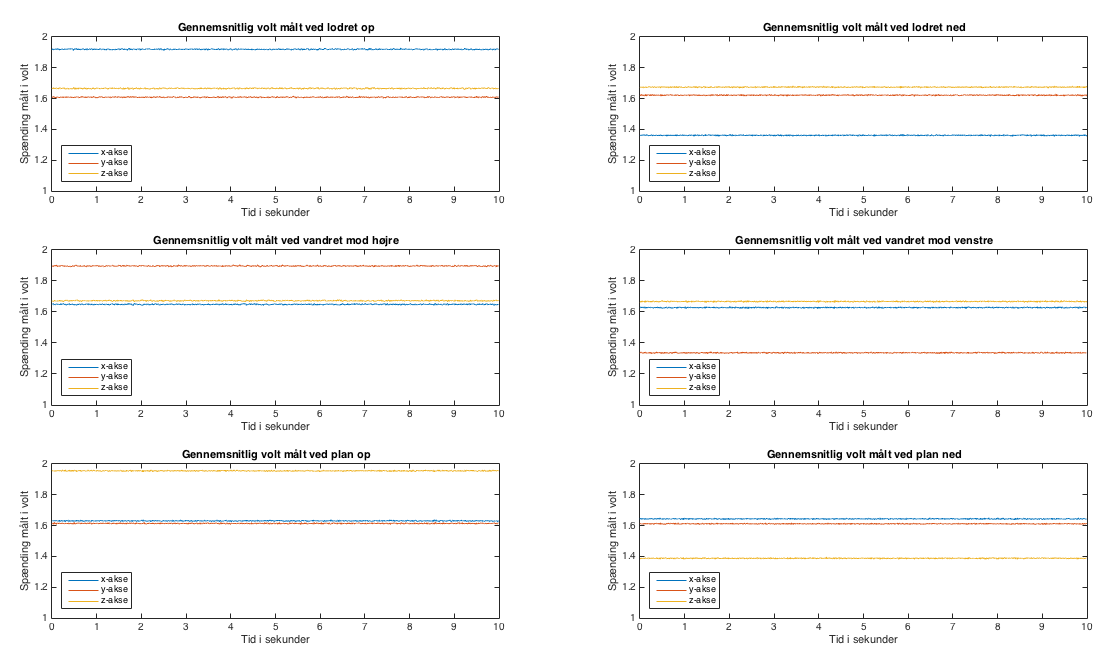
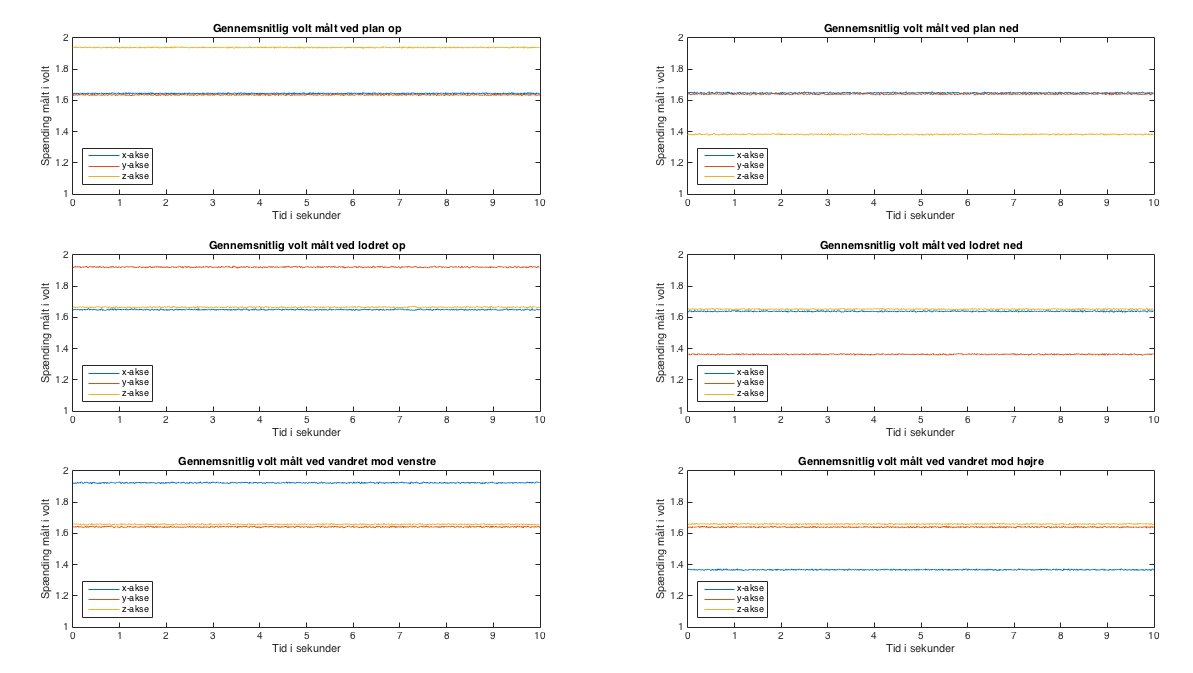
vinkeltest

diff --git a/rapportAfsnit/gPilotforsoeg/test_acc.tex b/rapportAfsnit/gPilotforsoeg/test_acc.tex
@@ -3,34 +3,49 @@
 I dette projekt anvendes to accelerometre, som er beskrevet i \autoref{sec:acc}. Disse anvendes som sensorer til opsamling af acceleration, der giver et outputsignal svarende til en spænding. For at kunne anvende et accelerometer er det vigtigt at kende forskellige tolerancer i forhold til deres datablade, hvorfor et forsøg udføres for at kunne tage højde for disse parametre.
 
 \subsection{Formål}
-Denne test har til formål at identificere spændingen i henholdsvis $0^{\circ}$ og $90^{\circ}$, hvorudfra vinkler kan beregnes. Derudover identificeres støjsignaler i outputsignalet samt offsettet og sensitiviteten. Dette gøres for at teste accelerometrenes tolerancer, hvorved dette kan tages højde for i senere forsøg. 
+Denne test har til formål at identificere spændingen i henholdsvis $1^{\circ}$ og $90^{\circ}$, hvorudfra vinkler kan beregnes. Derudover identificeres %støjsignaler i outputsignalet samt 
+offsettet og sensitiviteten, hvilket gøres for at teste accelerometrenes tolerancer.
 
 \begin{enumerate}
-\item Identificering af støj i outputsignaler for accelerometrene
+%\item Identificering af støj i outputsignaler for accelerometrene
+\item Test af linearitet
 \item Identificering af offsettet og sensitiviteten for accelerometrene
-\item Identificering af spænding ved $0^{\circ}$ og $90^{\circ}$
+\item Identificering af spænding ved $1^{\circ}$ og $90^{\circ}$
 \end{enumerate}
 
 \subsection{Materialer}
 \begin{itemize}
 \item Accelerometre ADXL$335$
 \item Tape
-\item Vinkel
 \item Vaterpas
 \item Breadboard
+\item Vinkeltester, fremgår af \autoref{vinkeltest}
 \item Computer med Scopelogger og MATLAB
 \item NI USB-6009
 \end{itemize}
 
 \subsection{Metode}
 \begin{enumerate}
-\item Der foretages målinger i accelerometerets tre akser og i de seks positioner som accelerometeret, hvorved støj som accelerometeret påvirkes med kan identificeres
-\item Ud fra de øvrige målinger kan offset og sensitiviteten beregnes ved at se på de akser hvor accelerometeret udsættes for 0 g-påvirkning, hvilket svarer til at accelerometeret ikke udsættes for tyngdekraften, hvorved accelerometeret måles vinkelret på planet
-\item Ud fra målingerne ved 0 og 1 g-påvirkning kan spændingen ved $0^(\circ}$ og $90^{\circ}$ kan beregnes ved \autoref{equ:vinkler}
+%\item Der foretages målinger i accelerometerets tre akser og i de seks positioner som accelerometeret, hvorved støj som accelerometeret påvirkes med kan identificeres
+\item Der foretages måliger i accelerometerets tre akser i 11 positioner, hvorved der kan testes for linearitet
+\item Der foretages målinger i accelerometerets tre akser og i de seks positioner som accelerometeret, hvor efter offset og sensitiviteten kan beregnes ved at se på de akser, hvor accelerometeret udsættes for 0 g-påvirkning, hvilket svarer til at accelerometeret ikke udsættes for tyngdekraften, hvorved accelerometeret måles vinkelret på planet
+\item Ud fra målingerne ved 0 og 1 g-påvirkning kan spændingen ved $1^(\circ}$ og $90^{\circ}$ kan beregnes ved \autoref{equ:vinkler}
 \end{enumerate}
 
 \subsection{Forsøgsopstilling}
 Forsøgsopstillingen udføres på samme måde for begge accelerometre.
+
+\textbf{Forsøgsopstilling af formål 1}
+\begin{itemize}
+\item Accelerometeret tilkobles vinkeltesteren.
+\begin{itemize}
+\item Accelerometeret indstilles efter fremgangsmåden for hver øvelse som er illustreret i autoref{sec:fremgangsmaadevinkel}
+\end{itemize}
+\item Accelerometeret tilkobles NI USB-6009
+\item NI USB-6009 tilkobles computer
+\end{itemize}
+
+\textbf{Forsøgsopstilling af formål 2 og 3}
 \begin{itemize}
 \item Accelerometeret tilkobles breadboardet og sættes fast med tape
 \item Accelerometeret indstilles så det er i vater med et vaterpas
@@ -42,8 +57,37 @@ Forsøgsopstillingen udføres på samme måde for begge accelerometre.
 \end{itemize}
 
 \subsection{Fremgangsmåde} 
-\label{sec:acc_fremgangsmaade}
-Der foretages seks forskellige positioner for hvert accelerometer. Hver position måles tre gange og samles i 10 sekunder ved 100 Hz, hvilket er det dobbelte af båndbredden for accelerometrene \citep{analogdevices2010}. De forskellige fremgangsmåder er illustreret på \autoref{fig:acc_paavirkning}. 
+Fremgangsmåden er den samme for de to accelerometre og der måles på alle tre akser på accelerometerne 
+\textbf{Fremgangsmåde for formål 1} \label{vinkel_fremgangsmaade}
+Der foretages 3 forskellige positioner. Hver position måles 1 gang i de forskellige vinkeler og samples i 10 sekunder ved 100Hz, hvilket er det dobbelte af båndbredden for accelerometrene \citep{analogdevices2010}. Målingerne er udført på en vinkeltester, som er illustreret på \autoref{fig:vinkeltest}
+\begin{itemize}
+\item Accelerometeret måles så det er lodret
+\begin{itemize}
+\item Målinger fra $0^{\circ}$ til og med $180^{\circ}$ med $20^{\circ}$ interval 
+\item Måling ved $90^{\circ}$  
+\end{itemize}
+\item Accelerometeret måles så det er vandret
+\begin{itemize}
+\item Målinger fra $0^{\circ}$ til og med $180^{\circ}$ med $20^{\circ}$ interval 
+\item Måling ved $90^{\circ}$  
+\end{itemize}
+\item Accelerometeret måles i plan på bordet
+\begin{itemize}
+\item Målinger fra $0^{\circ}$ til og med $180^{\circ}$ med $20^{\circ}$ interval 
+\item Måling ved $90^{\circ}$  
+\end{itemize}
+\end{itemize}
+
+
+\begin{figure}[H]
+\centering
+\includegraphics[width=0.3\textwidth]{figures/vinkeltest}
+\caption{Vinkeltester som anvendes under forsøget til at holde accelerometeret i bestemte vinkeler}
+\label{fig:vinkeltest}
+\end{figure}
+
+\textbf{Fremgangsmåde for formål 2 og 3}\label{sec:acc_fremgangsmaade}
+Der foretages seks forskellige positioner. Hver position måles tre gange og samles i 10 sekunder ved 100 Hz, hvilket er det dobbelte af båndbredden for accelerometrene \citep{analogdevices2010}. De forskellige fremgangsmåder er illustreret på \autoref{fig:acc_paavirkning}. 
 \begin{itemize}
 \item Accelerometeret stilles så det er lodret opad
 \item Accelerometeret stilles så det er lodret nedad
@@ -60,17 +104,10 @@ Der foretages seks forskellige positioner for hvert accelerometer. Hver position
 \label{fig:acc_paavirkning}
 \end{figure}
 
-\subsection{Resultater}
-Der er foretaget en fourier transformations analyse (FFT) af de tre målinger foretaget i de seks positioner for at identificeres støj. Ud fra resultaterne ses det at der på begge accelerometre er støj ved 33-34Hz. En af målingerne fremgår på \autoref{fig:FFT_acc}. 
+\subsection{Resultater} \fxnote{resultaterne er fra det røde accelerometer}
+De viste resultater er for det ene accelerometer, dette er kun vist da sensitiviten og offsettet ændre sig hver hver gang der udføres et forsøg. Det vil derfor ikke være muligt at fastsætte en konstant værdi, hvorfor det kun er nødvendig at kende metoden til at beregne værdierne skal foretages ved hvert forsøg.
 
-\begin{figure}[H]
-\centering
-\includegraphics[width=0.3\textwidth]{figures/FFT_acc}
-\caption{FFT analyse af de tre målinger for det ene accelerometer målt i vandret mod venstre, hvor accelerometeret bliver påvirket i y-aksens retning}
-\label{fig:FFT_acc}
-\end{figure}
-
-Ud fra de tre målinger foretaget i de forskellige positioner beregnes den gennemsnitlige værdi af målingerne på de forskellige akser, herefter plottes disse i en graf, hvorved det er muligt at se hvilken akse der bliver påvirket mest under øvelsen. Målingerne fremgår på \autoref{fig:paavirkning}. 
+Ud fra de tre målinger foretaget i de forskellige positioner beregnes den gennemsnitlige værdi af målingerne på de forskellige akser, herefter disse plottes i en graf, herved er det muligt, at se hvilken akse der bliver påvirket mest under øvelsen. Målingerne fremgår på \autoref{fig:paavirkning}. 
 
 \begin{figure}[H]
 \centering
@@ -79,7 +116,7 @@ Ud fra de tre målinger foretaget i de forskellige positioner beregnes den genne
 \label{fig:paavirkning}
 \end{figure}
 
-Der beregnes offset ud fra målingerne hvor accelerometeret påvirkes med 0 g. Der hvor accelerometeret er påvirket med 0 g er illustreret på \autoref{fig:acc_paavirkning}. Målingerne fremgår af \autoref{Tab:acc_offset}. 
+Offset beregnes ud fra de målinger, hvor accelerometeret påvirkes med 0 g. Den akse hvor accelerometeret bliver påvirket med 0 g i de seks positioner fremgår af \autoref{fig:acc_paavirkning}. Resultaterne fra målingerne fremgår af \autoref{Tab:acc_offset}. 
 
 \begin{table}[H]
 	\centering
@@ -102,24 +139,24 @@ Der beregnes offset ud fra målingerne hvor accelerometeret påvirkes med 0 g. D
 	\label{Tab:acc_offset}
 \end{table}
 
-Der beregnes sensitiviten ud fra forskellen mellem 0 og 1 g-påvirkningen af accelerometeret. Der hvor accelerometeret er påvirket med 1 g er illustreret på \autoref{fig:acc_paavirkning}. Målingerne fremgår af \autoref{Tab:acc_sensitiviteten}. 
+Sensitiviten beregnes ud fra forskellen mellem 0 og 1 g-påvirkningen af accelerometeret. Der hvor accelerometeret er påvirket med 1 g er illustreret på \autoref{fig:acc_paavirkning}. Målingerne fremgår af \autoref{Tab:acc_sensitiviteten}. 
 
 \begin{table}[H]
 	\centering
 	\begin{tabular}{|l|l|l|}
 	\textbf{Målt retning} & \textbf{Målt akse} & \textbf{Sensitivitet} \\ \hline
-    \textbf{Lodret op} 		& Y		& $0,1232~V/g$ 	\\ \hline
-    \textbf{Lodret ned}		& Y 		& $-0,1079~V/g$ 	\\ \hline
-    \textbf{Vandret højre} 	& X 		& $0,1092~V/g$     \\ \hline     
-    \textbf{Vandret venstre}	& X 		& $-0,1164~V/g$ 	\\ \hline
-    \textbf{Plan op} 		& Z 		& $0,1130~V/gV$    	\\ \hline		
-    \textbf{Plan ned} 		& Z 		& $-0,1167~V/g$		\\ \hline
+    \textbf{Lodret op} 		& Y		& $0,1092~V/g$ 	\\ \hline
+    \textbf{Lodret ned}		& Y 		& $-0,1164~V/g$ 	\\ \hline
+    \textbf{Vandret højre} 	& X 		& $0,1130~V/g$     \\ \hline     
+    \textbf{Vandret venstre}	& X 		& $-0,1167~V/g$ 	\\ \hline
+    \textbf{Plan op} 		& Z 		& $0,1232~V/gV$    	\\ \hline		
+    \textbf{Plan ned} 		& Z 		& $-0,1079~V/g$		\\ \hline
 	\end{tabular}
 	\caption{Sensitiviteten beregnet for de forskellige akser hvor accelerometeret udsættes for en 1 g-påvirkning}
 	\label{Tab:acc_offset}
 \end{table}
 
-Ud fra senstitivten beregnes spændingen ved $1^{\circ}$ og $90^{\circ}$ i negativ og positiv retning\fxnote{Er der nødvendig med 1 grad?}. Spændingen svarende til $0^{\circ}$ svarer til den målte offsetværdi som fremgår af \autoref{Tab:acc_offset}. Beregningerne af spændingen ved de valgte grader fremgår af \autoref{Tab:acc_grader} og er beregnet ud ligning \autoref{equ:vinkler}.
+Ud fra senstitivten beregnes spændingen ved $1^{\circ}$ og $90^{\circ}$ i negativ og positiv retning\fxnote{Er der nødvendig med 1 grad?}. Spændingen svarende til $0^{\circ}$ svarer til den målte offsetværdi som fremgår af \autoref{Tab:acc_offset}. Beregningerne af spændingen ved de valgte grader fremgår af \autoref{Tab:acc_grader} og er beregnet ud fra ligning \autoref{equ:vinkler}.
 
  \begin{table}[H]
 	\centering
